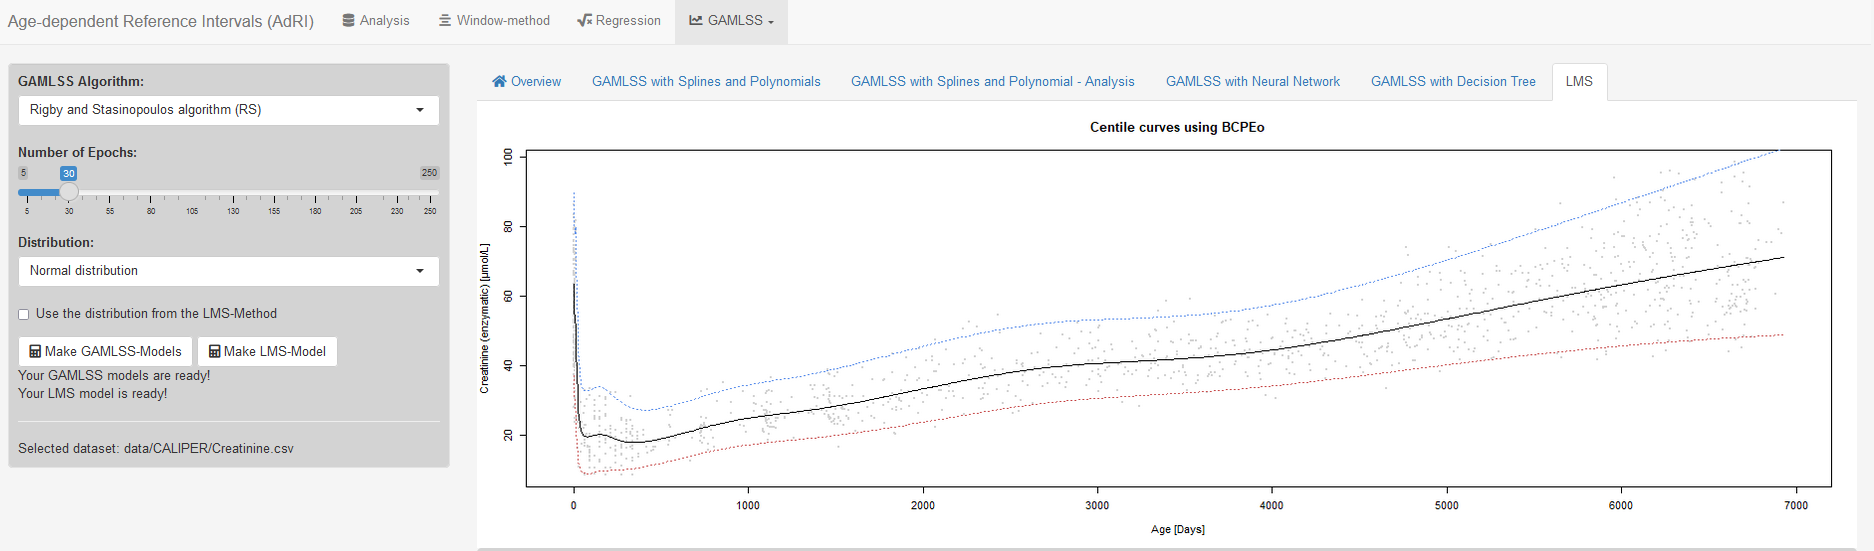
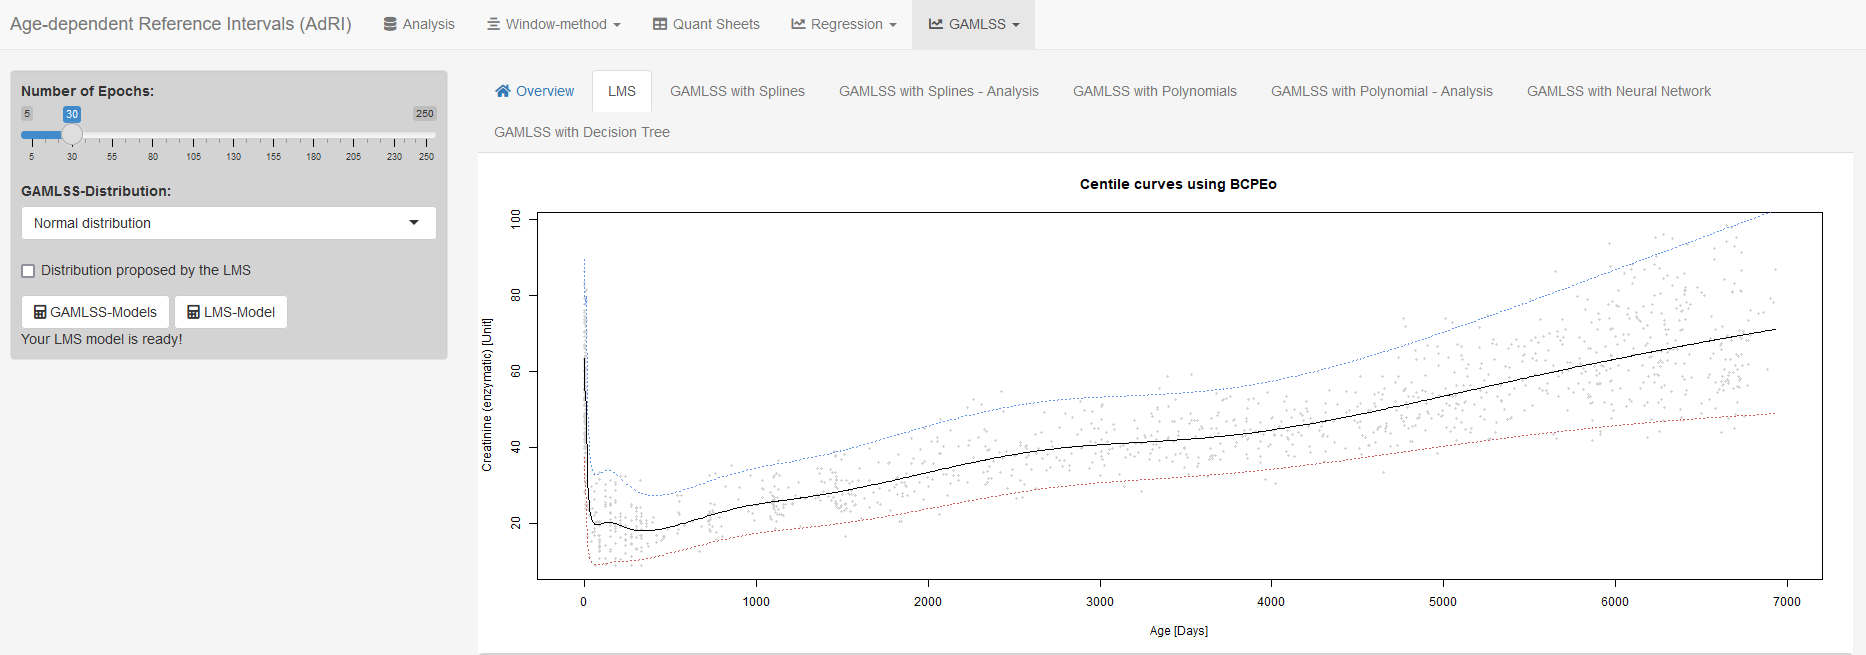
Split splines and polynomials + Enable tabs

diff --git a/www/gamlss.html b/www/gamlss.html
@@ -6,8 +6,8 @@ g2(σ) = h2(σ) <br/>
 g3(ν) = h3(ν) <br/>
 g4(τ) = h4(τ) <br/><br/>
 
-There are two algorithms in the gamlss package to reach the best model, this is the Rigby and Stasinopoulos algorithm (RS) or Cole and Green algorithm (CS) algorithm. Different models can be compared with the Pseudo R^2, AIC, BIC or GAIC(3) and can be visually evaluated. The centiles are calculated with the family distribution and the function quantile function in R. After fitting the GAMLSS models, the residuals can be calculated and can be removed to delete possible outliers from the data. The GAMLSS model can predict new reference values for GAMLSS models. The predicted GAMLSS models can be used to make discrete models, the deviation of the upper/lower Reference Intervals is calculated and split with a given threshold. This age-groups are used to calculate the percentiles, to make it easy to save the reference intervals in the laboratory systems. (Stasinopoulos, Dm & Rigby, Robert. (2007). Generalized additive models for Location Scale and Shape (GAMLSS) in R. Journal of Statistical Software. 23. 10.18637/jss.v023.i07.)</p>
- 
-<p> The semi-parametric <strong>LMS</strong> method was developed by Cole and Green in 1992 for fitting the age to a response variable in order to create centile curves. The form of the LMS Model is Y ~ D(µ, σ, ν, τ) and will automatic find the best fit for this three distributions: Box-Cox Cole & Green Distribution "BCCGo" (<strong>LMS</strong>), Box-Cox Power Exponential Distribution "BCPEo" (<strong>LMSP</strong>) or Box-Cox t-Distribution "BCTo" (<strong>LMST</strong>) and smooth it with P-Splines. These are commonly used to calculate percentile curves for growth reference curves for children and adolescents such as by World Health Organization (WHO) Multicentre Growth Reference Study (MGRS) Group. (Stasinopoulos, Dm & Rigby, Robert. (2007). Generalized additive models for Location Scale and Shape (GAMLSS) in R. Journal of Statistical Software. 23. 10.18637/jss.v023.i07.)</p>
+Different models can be compared with the Pseudo R^2, AIC, BIC or GAIC(3) and can be visually evaluated. The centiles are calculated with the family distribution and the function quantile function in R. After fitting the GAMLSS models, the residuals can be calculated and can be removed to delete possible outliers from the data. The GAMLSS model can predict new reference values for GAMLSS models. The predicted GAMLSS models can be used to make discrete models, the deviation of the upper/lower Reference Intervals is calculated and split with a given threshold. This age-groups are used to calculate the percentiles, to make it easy to save the reference intervals in the laboratory systems. (Stasinopoulos, Dm & Rigby, Robert. (2007). Generalized additive models for Location Scale and Shape (GAMLSS) in R. Journal of Statistical Software. 23. 10.18637/jss.v023.i07.)
 
-<p> The calculation can take a while! More datapoints, more epochs and more complex distributions takes longer than the Normaldistribution! Each dataset is different so sometimes the calculation is fast, sometimes the program nedds more time for calculation. Normaldistribution is the fastest, but not the best solution for all analytes, because it can not simulate skewed data. Sometimes errors can occur if the distribution cannot be modeled on the data! In this case, a different distribution is to be preferred or the age range can be reduced! To start the modelling click on the left buttons! </p>
+The semi-parametric <strong>LMS</strong> method was developed by Cole and Green in 1992 for fitting the age to a response variable in order to create centile curves. The form of the LMS Model is Y ~ D(µ, σ, ν, τ) and will automatic find the best fit for this three distributions: Box-Cox Cole & Green Distribution "BCCGo" (<strong>LMS</strong>), Box-Cox Power Exponential Distribution "BCPEo" (<strong>LMSP</strong>) or Box-Cox t-Distribution "BCTo" (<strong>LMST</strong>) and smooth it with P-Splines. These are commonly used to calculate percentile curves for growth reference curves for children and adolescents such as by World Health Organization (WHO) Multicentre Growth Reference Study (MGRS) Group. (Stasinopoulos, Dm & Rigby, Robert. (2007). Generalized additive models for Location Scale and Shape (GAMLSS) in R. Journal of Statistical Software. 23. 10.18637/jss.v023.i07.)
+
+<strong> To start the modelling click on the left buttons! </strong> </p>

diff --git a/www/tabs_enabled.js b/www/tabs_enabled.js
@@ -1,0 +1,18 @@
+var tab = $('a[data-value="nav_lms"]').parent().addClass("disabled")
+                    $(function(){
+                      $(tab.parent()).on("click", "li.disabled", function(e) {
+                        e.preventDefault();
+                        return false;
+                      });
+                    });
+					
+					
+var tabs = $('a[data-value="nav_gamlss"]').parent().addClass("disabled");
+
+             
+                    $(function(){
+                      $(tabs.parent()).on("click", "li.disabled", function(e) {
+                        e.preventDefault();
+                        return false;
+                      });
+                    });
